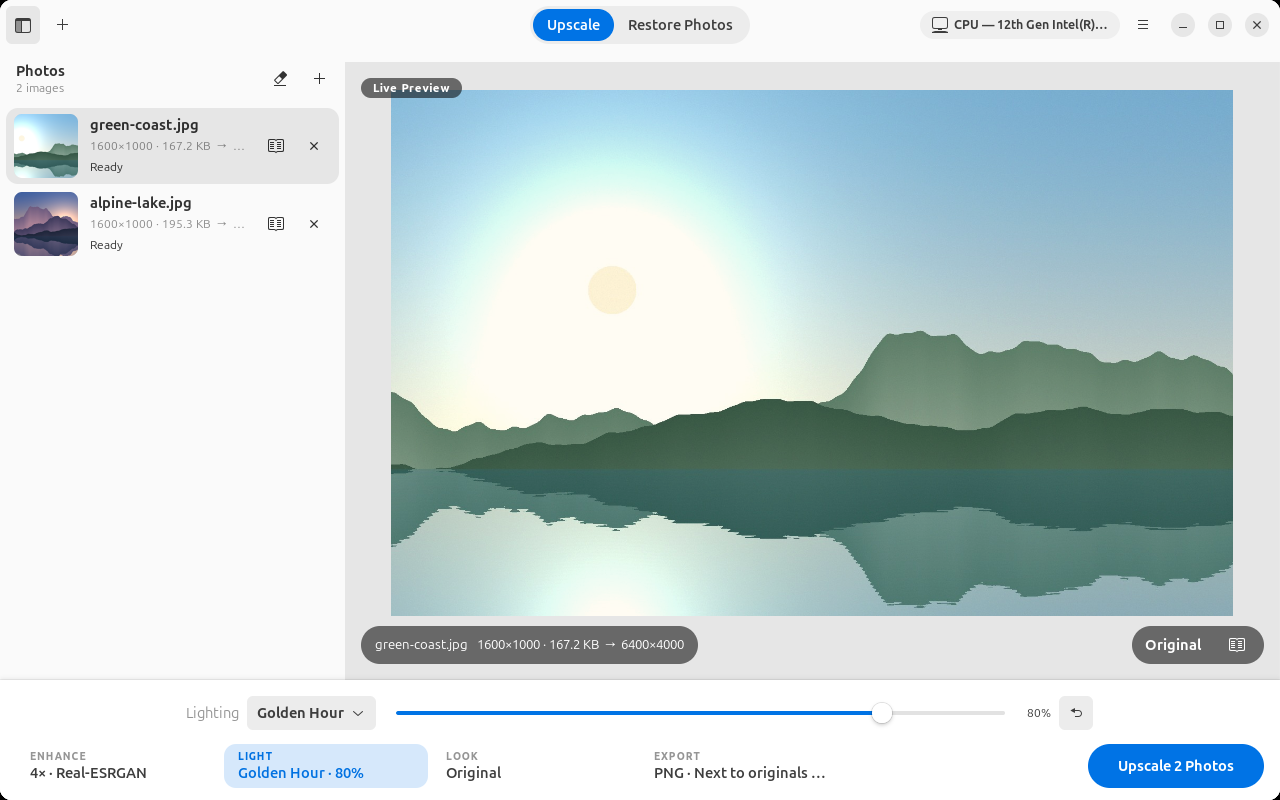
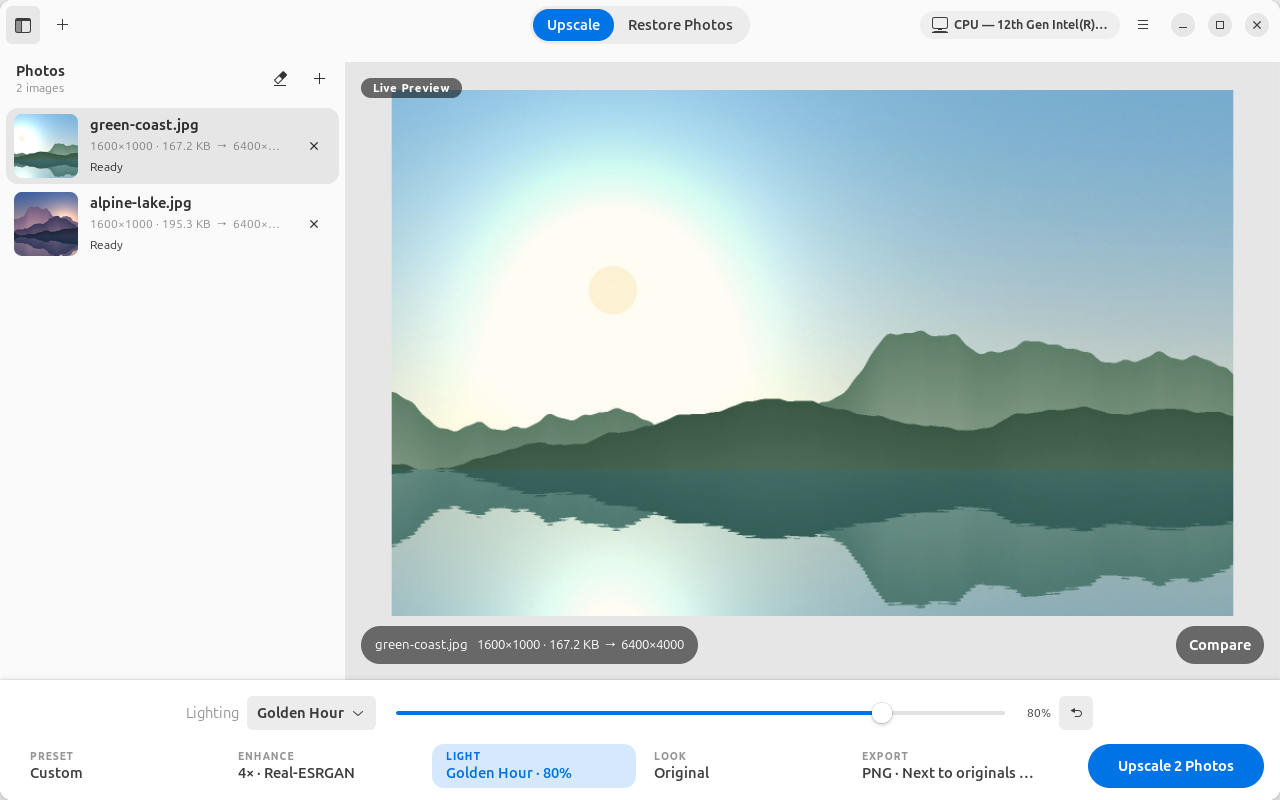
Fix stage comparison issues and release 1.7.1
Fixes from a review of 1.7.0's on-stage comparison:

- Zoom ranges from the smaller of fit and 100 %, so photos smaller than the
  stage reach actual pixels again; large photos still snap back to fit.
  Zooming does nothing on an empty stage.
- One _restore_active check guards the after side; when a restoration
  preview fails or is cancelled the live look is rendered again, picking up
  changes made while it ran.
- _restore_worker tracks the preview's thread until it actually returns.
  A batch (or a new preview) started while a cancelled one winds down waits
  for it instead of sharing the engine. Starting a batch also drops a
  finished preview.
- The preview remembers the settings it was made with (restoration,
  lighting, look, model, scale); Update Preview shows exactly when they
  differ, replacing a flag set on every settings notification.
- Double-clicking a photo turns Compare on once it has loaded and only if
  there is an after side, instead of a hidden flag that split later.
- C toggles Compare from a window-level key controller (bubble phase, so
  text fields keep their letters), with or without Shift.

README screenshots are retaken with the current UI and show the
comparison on the stage.

diff --git a/pixelift/ui/main_window.py b/pixelift/ui/main_window.py
@@ -107,9 +107,12 @@ class MainWindow(Adw.ApplicationWindow):
         self._stage_busy = False
         self._stage_generation = 0
         # Restore mode: a reduced-size restoration on the after side.
-        self._restore_control: JobControl | None = None  # running
+        self._restore_control: JobControl | None = None  # running, not cancelled
+        self._restore_worker = False  # its thread is still busy (even once cancelled)
+        self._after_restore_worker: list[Callable[[], None]] = []  # waiting for it
         self._restore_shown = False
-        self._restore_stale = False  # settings changed since it was made
+        self._restore_key: tuple | None = None  # the settings the preview was made with
+        self._compare_pending = False  # double-clicked: compare once there is an after side
         # Startup: the startup screen shows at once; the workspace is built
         # right after its first frame, then the screen dissolves into it.
         self.ready = False
@@ -257,6 +260,10 @@ class MainWindow(Adw.ApplicationWindow):
         drop = Gtk.DropTarget.new(Gdk.FileList, Gdk.DragAction.COPY)
         drop.connect("drop", self._on_drop)
         self.toasts.add_controller(drop)
+        # Bubble phase: a focused text field gets its letters first.
+        keys = Gtk.EventControllerKey()
+        keys.connect("key-pressed", self._on_key)
+        self.add_controller(keys)
 
         # The sidebar floats over the stage on smaller windows; on narrow ones
         # the controls stack vertically too. (Only the last matching applies.)
@@ -898,8 +905,6 @@ class MainWindow(Adw.ApplicationWindow):
 
     def _on_look_changed(self) -> None:
         self._update_tab_values()
-        if self._restore_shown:
-            self._restore_stale = True  # offer to update the restoration preview
         self._refresh_stage()
 
     def _on_scale_selected(self, index: int) -> None:
@@ -957,6 +962,7 @@ class MainWindow(Adw.ApplicationWindow):
         if row is None:
             return  # keep showing the last photo until another is chosen
         assert isinstance(row, QueueRow)
+        self._compare_pending = False
         self._stage_row = row
         self._refresh_stage()
 
@@ -1073,7 +1079,7 @@ class MainWindow(Adw.ApplicationWindow):
     def _render_stage_look(self) -> None:
         """Bring the "after" side up to date with the lighting and camera look."""
         base = self._stage_base
-        if base is None or self._restore_shown or self._restore_control is not None:
+        if base is None or self._restore_active:
             return  # a result, or a restoration preview, is on the after side
         view = self.stage_view
         wanted = self._wanted_stage_look()
@@ -1097,9 +1103,7 @@ class MainWindow(Adw.ApplicationWindow):
             return cl.apply_to_pil(region, recipe, adjustments, frame=frame, output=output)
 
         def current() -> bool:
-            return base is self._stage_base and not (
-                self._restore_shown or self._restore_control is not None
-            )
+            return base is self._stage_base and not self._restore_active
 
         def done(img: Image.Image) -> None:
             self._stage_busy = False
@@ -1134,11 +1138,33 @@ class MainWindow(Adw.ApplicationWindow):
         )
 
     # --- restoration preview on the stage --------------------------------
+    @property
+    def _restore_active(self) -> bool:
+        """A restoration preview is running or holds the after side."""
+        return self._restore_shown or self._restore_control is not None
+
+    def _restoration_key(self) -> tuple:
+        """Everything a restoration preview depends on: when it differs from
+        the preview's, the preview is out of date."""
+        settings = self.app.settings
+        options = settings.processing_options()
+        return (
+            options.restoration or settings.restoration(),
+            options.lighting.adjustments(),
+            options.camera_look.recipe(),
+            options.model,
+            options.output_scale,
+        )
+
     def _preview_restoration(self) -> None:
         """Restore a reduced-size copy of the photo (no upscaling) with the
         current settings and compare it with the original on the stage."""
         base = self._stage_base
         if base is None or self._restore_control is not None:
+            return
+        if self._restore_worker:
+            # A cancelled preview is still winding down on the engine.
+            self._after_restore_worker.append(self._preview_restoration)
             return
         if self.running:
             show_error(
@@ -1164,8 +1190,10 @@ class MainWindow(Adw.ApplicationWindow):
         sw, sh = self.stage_view.before.source_size
         look_output = (sw * options.output_scale, sh * options.output_scale)
         path = self._stage_source
+        key = self._restoration_key()
         control = JobControl()
         self._restore_control = control
+        self._restore_worker = True
         self.stage_spinner.set_spinning(True)
         self._update_stage_overlays()
 
@@ -1187,44 +1215,51 @@ class MainWindow(Adw.ApplicationWindow):
             return Image.fromarray(result.rgb).convert("RGBA")
 
         def finish(img: Image.Image | None, exc: BaseException | None = None) -> None:
-            if self._restore_control is not control:
-                return  # dropped meanwhile: another photo, mode or a batch started
-            self._restore_control = None
-            self.stage_spinner.set_spinning(False)
-            if img is not None and not control.cancelled:
-                view = self.stage_view
-                after = view.after
-                after.clear()
-                after.texture = texture_from_pil(img)  # no full-resolution detail
-                after.source_size = view.before.source_size
-                self._restore_shown = True
-                self._restore_stale = False
-                self._stage_shown_look = None
-                view.comparing = True
-                view.queue_draw()
-            elif exc is not None and not isinstance(exc, CancelledError):
-                show_error(self, friendly_error(exc))
-            self._update_stage_overlays()
+            self._restore_worker = False
+            if self._restore_control is control:
+                self._restore_control = None
+                self.stage_spinner.set_spinning(False)
+                if img is not None and not control.cancelled:
+                    view = self.stage_view
+                    after = view.after
+                    after.clear()
+                    after.texture = texture_from_pil(img)  # no full-resolution detail
+                    after.source_size = view.before.source_size
+                    self._restore_shown = True
+                    self._restore_key = key
+                    self._stage_shown_look = None
+                    view.comparing = True
+                    view.queue_draw()
+                else:
+                    if exc is not None and not isinstance(exc, CancelledError):
+                        show_error(self, friendly_error(exc))
+                    self._render_stage_look()  # look changes made meanwhile
+                self._update_stage_overlays()
+            # (Otherwise dropped meanwhile: another photo, the mode or a batch.)
+            waiting, self._after_restore_worker = self._after_restore_worker, []
+            for callback in waiting:
+                callback()
 
         run_in_thread(work, on_done=finish, on_error=lambda e: finish(None, e), name="restore")
 
-    def _cancel_restore_preview(self) -> None:
-        """Stop a running restoration preview (a batch needs the models)."""
+    def _drop_restore_preview(self) -> None:
+        """Stop and forget the restoration preview: the live look takes the
+        after side again. (A cancelled worker may run on until its next check;
+        ``_restore_worker`` keeps new work off the engine until then.)"""
+        if not self._restore_active:
+            return
         if self._restore_control is not None:
             self._restore_control.cancel()
             self._restore_control = None
             self.stage_spinner.set_spinning(False)
-            self._update_stage_overlays()
-
-    def _drop_restore_preview(self) -> None:
-        """Forget the restoration preview: the live look takes the after side again."""
-        self._cancel_restore_preview()
         if self._restore_shown:
-            self._restore_shown = self._restore_stale = False
+            self._restore_shown = False
+            self._restore_key = None
             self.stage_view.after.clear()
             self._stage_shown_look = None
             self.stage_view.queue_draw()
-            self._render_stage_look()
+        self._render_stage_look()
+        self._update_stage_overlays()
 
     # --- stage overlays ----------------------------------------------------
     def _update_stage_overlays(self) -> None:
@@ -1261,15 +1296,36 @@ class MainWindow(Adw.ApplicationWindow):
         restore_btn.set_sensitive(not busy and not self.running)
         if busy:
             restore_btn.set_label("Restoring…")
-        elif self._restore_shown and self._restore_stale:
+        elif self._restore_shown and self._restore_key != self._restoration_key():
             restore_btn.set_label("Update Preview")
         else:
             restore_btn.set_label("Preview Restoration")
+        if self._compare_pending and view.image_size[0]:  # double-clicked, loaded
+            if view.can_compare:
+                self._compare_pending = False
+                view.comparing = True
+            if not self._stage_busy and self._restore_control is None:
+                self._compare_pending = False  # nothing to compare this photo with
         # Comparing, the divider labels both sides in place of the badge.
         self.stage_badge.set_visible(not view.showing_split)
         for widget in (self.stage_info, self.stage_tools):
             widget.set_visible(True)
         self._update_zoom_chip()
+
+    def _on_key(
+        self, _ctrl: Gtk.EventControllerKey, keyval: int, _code: int, state: Gdk.ModifierType
+    ) -> bool:
+        """C (any case, from anywhere in the workspace) toggles Compare."""
+        modifiers = Gdk.ModifierType.CONTROL_MASK | Gdk.ModifierType.ALT_MASK
+        if (
+            state & (modifiers | Gdk.ModifierType.SUPER_MASK)
+            or Gdk.keyval_to_lower(keyval) != Gdk.KEY_c
+            or not self.compare_btn.is_visible()
+            or self.get_visible_dialog() is not None
+        ):
+            return False
+        self.stage_view.comparing = not self.stage_view.comparing
+        return True
 
     def _update_zoom_chip(self) -> None:
         view = self.stage_view
@@ -1415,7 +1471,9 @@ class MainWindow(Adw.ApplicationWindow):
                 show_error(self, row.item.error)
             return
         self.listbox.select_row(row)
-        self.stage_view.comparing = True
+        # The photo may still be loading: compare once both sides are there.
+        self._compare_pending = True
+        self._update_stage_overlays()
         self.stage_view.grab_focus()
 
     # --- processing --------------------------------------------------------
@@ -1470,6 +1528,12 @@ class MainWindow(Adw.ApplicationWindow):
         are skipped; the saved settings stay as they are).
         """
         if self.running:
+            return
+        if self._restore_worker:
+            # A cancelled restoration preview still holds the engine: start
+            # once it has let go, never alongside it.
+            self._drop_restore_preview()
+            self._after_restore_worker.append(lambda: self.start(rows, without))
             return
         if self.app.device_report is None:
             self.toasts.add_toast(Adw.Toast(title="Still detecting the processing device…"))
@@ -1759,7 +1823,7 @@ class MainWindow(Adw.ApplicationWindow):
         self.panel_stack.set_sensitive(not running)
         self.mode_box.set_sensitive(not running)
         if running:
-            self._cancel_restore_preview()  # the batch needs the models and device
+            self._drop_restore_preview()  # the batch needs the models; results follow
         self._update_stage_overlays()
         self.progress_revealer.set_reveal_child(self.processor is not None)
 

diff --git a/pixelift/ui/preview.py b/pixelift/ui/preview.py
@@ -173,15 +173,22 @@ class CompareView(Gtk.Widget):
         return self.fit_zoom() if self.zoom is None else self.zoom
 
     def set_zoom(self, zoom: float | None, anchor: tuple[float, float] | None = None) -> None:
-        """Zoom keeping the image point under ``anchor`` in place; zooming out
-        to (or past) the fitted size fits the image again."""
+        """Zoom keeping the image point under ``anchor`` in place.
+
+        Zoom ranges from the smaller of fit and 100 % (actual pixels) to
+        ``MAX_ZOOM``: a large photo zoomed out past fit fits again, a small one
+        can still be seen at 100 %.
+        """
+        if not self.image_size[0]:
+            return  # nothing on the stage
         fit = self.fit_zoom()
-        if zoom is None or zoom <= fit * 1.001:
+        if zoom is not None:
+            zoom = min(max(MAX_ZOOM, fit), max(zoom, min(fit, self._actual_zoom())))
+        if zoom is None or abs(zoom - fit) <= fit * 0.001:
             self.zoom = None
             self.center = (self.image_size[0] / 2, self.image_size[1] / 2)
         else:
             old = self.effective_zoom()
-            zoom = min(max(MAX_ZOOM, fit), zoom)
             if anchor is not None:
                 vx, vy = self._view_center()
                 ax, ay = anchor[0] - vx, anchor[1] - vy
@@ -193,9 +200,12 @@ class CompareView(Gtk.Widget):
         self._update_cursor()
         self._view_changed()
 
-    def actual_pixels(self, anchor: tuple[float, float] | None = None) -> None:
+    def _actual_zoom(self) -> float:
         """1 image pixel = 1 physical screen pixel."""
-        self.set_zoom(1.0 / max(1, self.get_scale_factor()), anchor)
+        return 1.0 / max(1, self.get_scale_factor())
+
+    def actual_pixels(self, anchor: tuple[float, float] | None = None) -> None:
+        self.set_zoom(self._actual_zoom(), anchor)
 
     def zoom_by(self, factor: float) -> None:
         self.set_zoom(self.effective_zoom() * factor, self._view_center())
@@ -353,7 +363,7 @@ class CompareView(Gtk.Widget):
         self._update_cursor()
 
     def _on_click(self, _gesture: Gtk.GestureClick, n_press: int, x: float, y: float) -> None:
-        if n_press == 2:  # fit ↔ actual pixels, centred on the pointer
+        if n_press == 2 and self.image_size[0]:  # fit ↔ actual pixels, at the pointer
             if self.zoom is None:
                 self.actual_pixels((x, y))
             else:
@@ -361,7 +371,7 @@ class CompareView(Gtk.Widget):
 
     def _on_scroll(self, _ctrl: Gtk.EventControllerScroll, _dx: float, dy: float) -> bool:
         if not self.image_size[0]:
-            return False
+            return False  # nothing to zoom: let the stage scroll on
         self.set_zoom(self.effective_zoom() * (1.15**-dy), self._pointer)
         return True
 
@@ -375,9 +385,7 @@ class CompareView(Gtk.Widget):
         if state & (Gdk.ModifierType.CONTROL_MASK | Gdk.ModifierType.ALT_MASK):
             return False
         name = Gdk.keyval_name(keyval) or ""
-        if name == "c" and self.can_compare:
-            self.comparing = not self.comparing
-        elif name in ("Left", "Right", "Home", "End") and self.showing_split:
+        if name in ("Left", "Right", "Home", "End") and self.showing_split:
             step = {"Left": -KEY_SPLIT_STEP, "Right": KEY_SPLIT_STEP, "Home": -1, "End": 1}[name]
             self.split = min(1.0, max(0.0, self.split + step))
             self.queue_draw()

diff --git a/tests/test_gui_smoke.py b/tests/test_gui_smoke.py
@@ -28,6 +28,8 @@ def test_compare_view_zoom_math():
     from pixelift.ui.preview import CompareView
 
     view = CompareView()
+    view.zoom_by(2.0)
+    assert view.zoom is None  # nothing on the stage: nothing to zoom
     view.set_images((4000, 3000))
     assert view.zoom is None and view.center == (2000, 3000 / 2)
     view.set_zoom(2.0)

diff --git a/pixelift/__init__.py b/pixelift/__init__.py
@@ -1,6 +1,6 @@
 """Pixelift — local AI image super-resolution for the Linux desktop."""
 
-__version__ = "1.7.0"
+__version__ = "1.7.1"
 
 APP_ID = "io.github.pixelift.Pixelift"
 APP_NAME = "Pixelift"

diff --git a/README.md b/README.md
@@ -11,15 +11,15 @@ colour casts, faces, and optional colorization of black-and-white photos.
 > is no account, no telemetry and no analytics. The internet is only used —
 > when you ask — to download AI model files.
 
-![Pixelift's workspace: the selected photo with a Portra-inspired look previewed live, the photo sidebar, and the Enhance, Light, Look and Export tabs](docs/screenshots/workspace.png)
+![Pixelift's workspace: the selected photo compared on the stage — original on the left, the Portra-inspired look previewed live on the right — with the photo sidebar and the Preset, Enhance, Light, Look and Export tabs](docs/screenshots/workspace.png)
 
 <table>
   <tr>
-    <td><img src="docs/screenshots/restore.png" alt="Restore Photos mode: an old, scratched black-and-white print with the colorize choice and the restoration options"></td>
+    <td><img src="docs/screenshots/restore.png" alt="Restore Photos mode: an old, scratched black-and-white print compared with its restoration preview on the stage, with the colorize choice and the restoration options"></td>
     <td><img src="docs/screenshots/light-theme.png" alt="The light theme with the Golden Hour lighting profile previewed on a photo"></td>
   </tr>
   <tr>
-    <td align="center"><em>Restore Photos: dust, scratches, fading and faces — colorize only if you choose</em></td>
+    <td align="center"><em>Restore Photos: preview the restoration and compare it on the photo — colorize only if you choose</em></td>
     <td align="center"><em>Lighting profiles previewed live (light theme)</em></td>
   </tr>
 </table>

diff --git a/CHANGELOG.md b/CHANGELOG.md
@@ -4,6 +4,31 @@ All notable changes to Pixelift are documented here. The format follows
 [Keep a Changelog](https://keepachangelog.com/en/1.1.0/), and the project uses
 [Semantic Versioning](https://semver.org/).
 
+## [1.7.1] - 2026-10-08
+
+### Fixed
+
+- Photos smaller than the stage can be zoomed to 100 % again (double-click,
+  **1** or zooming out); zooming out still stops at fit for large photos.
+- After a restoration preview fails or is cancelled, the live look catches up
+  with lighting and look changes made while it ran.
+- Starting a batch also clears a finished restoration preview, and waits for
+  a cancelled one to let go of the engine instead of running alongside it; a
+  new preview waits the same way.
+- **Update Preview** appears exactly when the restoration settings, lighting,
+  look, model or scale differ from the preview's — not after unrelated changes
+  such as the output folder, and also for changes made while it was running.
+- Double-clicking a photo turns Compare on only when there is something to
+  compare (once the photo has loaded), instead of a hidden split appearing
+  later.
+- **C** toggles Compare from anywhere in the workspace (with or without Shift),
+  not only after clicking the photo.
+- Zoom keys and double-click do nothing on an empty stage.
+
+### Changed
+
+- README screenshots show the comparison on the stage.
+
 ## [1.7.0] - 2026-10-08
 
 ### Changed
